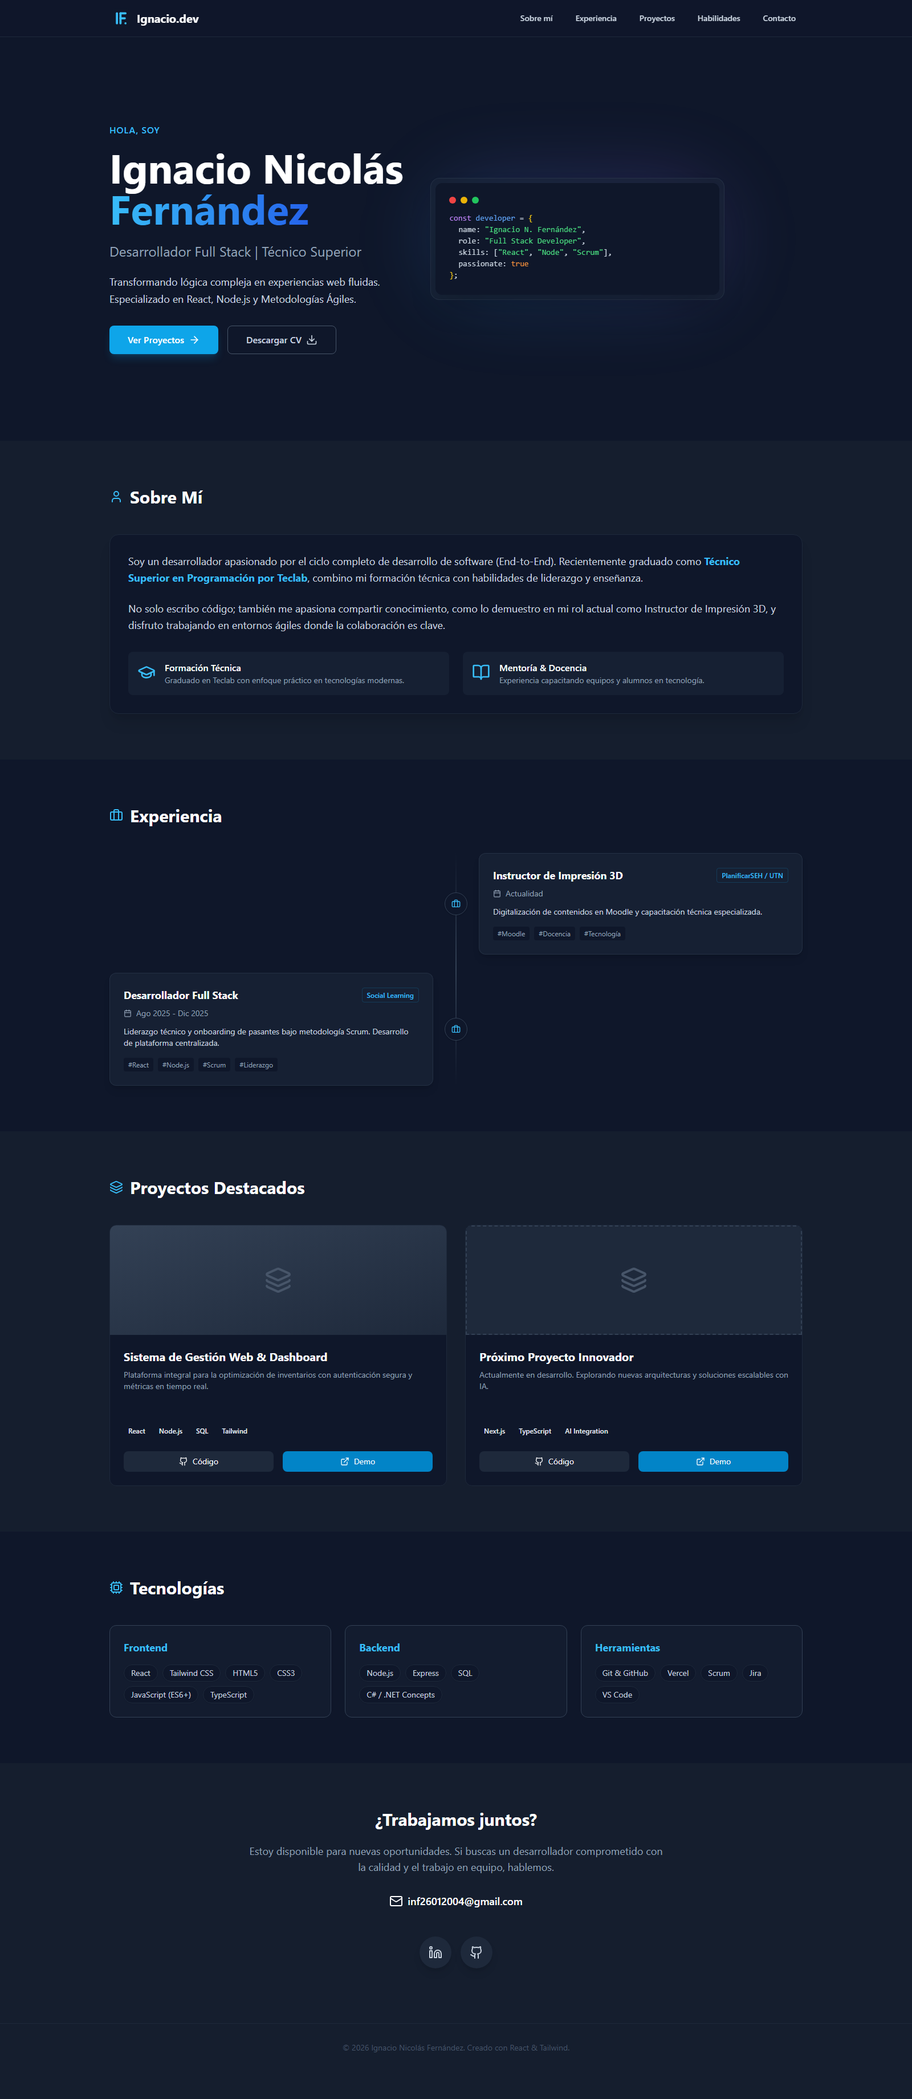
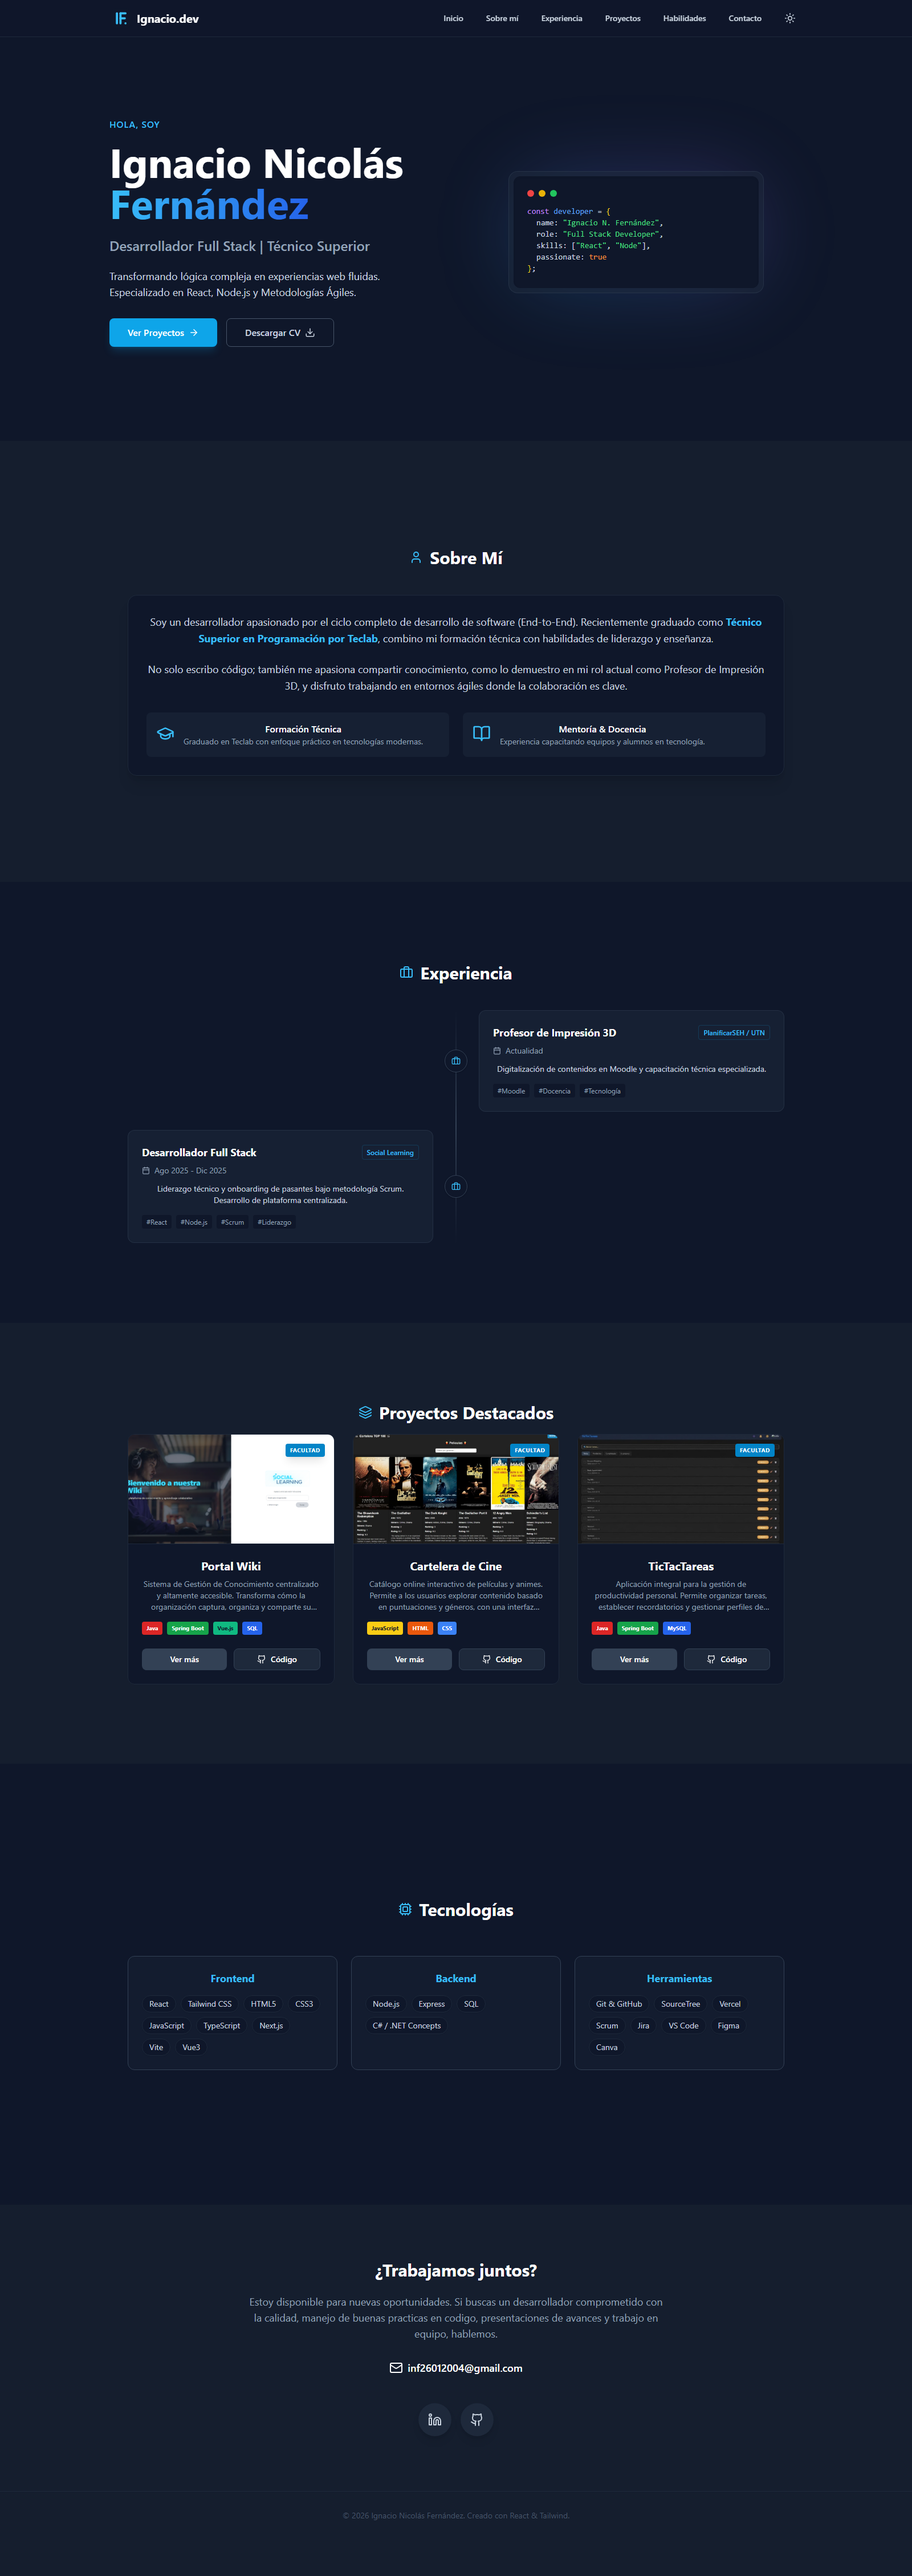
readme v2

diff --git a/README.md b/README.md
@@ -1,115 +1,153 @@
+Markdown
+
 <div align="center">
-  <a href="https://ignacio-fernandez-dev.vercel.app" target="_blank">
-    <img src="./public/logo.svg" alt="Logo" width="100" height="100">
+
+<a href="https://ignacio-fernandez-dev.vercel.app" target="_blank"> <img src="./public/logo.svg" alt="Logo" width="100" height="100">
+
   </a>
 
   <h1 align="center">Portafolio Personal | Ignacio Nicolás Fernández</h1>
 
-  <p align="center">
-    <strong>Desarrollador Full Stack & Técnico Superior en Programación</strong>
-    <br />
-    Un espacio minimalista y moderno para exhibir mis proyectos y experiencia técnica.
-    <br />
-    <br />
-    <a href="https://ignacio-fernandez-dev.vercel.app"><strong>🚀 Ver Demo en Vivo</strong></a>
-    ·
-    <a href="#-reportar-error">Reportar Error</a>
-    ·
-    <a href="#-contacto">Contactar</a>
-  </p>
-  
-  <p align="center">
-    <img src="https://img.shields.io/badge/STATUS-EN_DESARROLLO-green?style=for-the-badge" alt="Status" />
-    <img src="https://img.shields.io/badge/VITE-v5.0-646CFF?style=for-the-badge&logo=vite&logoColor=white" alt="Vite" />
-    <img src="https://img.shields.io/badge/REACT-20232A?style=for-the-badge&logo=react&logoColor=61DAFB" alt="React" />
-    <img src="https://img.shields.io/badge/TYPESCRIPT-3178C6?style=for-the-badge&logo=typescript&logoColor=white" alt="TypeScript" />
-  </p>
-</div>
+  <p align="center">    <strong>Desarrollador Full Stack & Técnico Superior en Programación</strong>
 
-<details>
+    <br />
+
+    Un espacio digital moderno, minimalista y altamente interactivo para exhibir mi trayectoria y proyectos.
+
+    <br />
+
+    <br />
+
+    <a href="https://ignacio-fernandez-dev.vercel.app"><strong>🚀 Ver Demo en Vivo</strong></a>
+
+    ·
+
+    <a href="https://github.com/TU_USUARIO/portfolio/issues">Reportar Bug</a>
+
+    ·
+
+    <a href="#-contacto">Contactar</a>
+
+  </p>
+
+  <p align="center">
+
+    <img src="https://img.shields.io/badge/STATUS-TERMINADO-success?style=for-the-badge" alt="Status" />
+
+    <img src="https://img.shields.io/badge/REACT-20232A?style=for-the-badge&logo=react&logoColor=61DAFB" alt="React" />
+
+    <img src="https://img.shields.io/badge/TYPESCRIPT-3178C6?style=for-the-badge&logo=typescript&logoColor=white" alt="TypeScript" />
+
+    <img src="https://img.shields.io/badge/TAILWIND-38B2AC?style=for-the-badge&logo=tailwind-css&logoColor=white" alt="Tailwind" />
+
+  </p>
+
+</div><details>
+
   <summary>Tabla de Contenidos</summary>
-  <ol>
-    <li><a href="#-sobre-el-proyecto">Sobre el Proyecto</a></li>
-    <li><a href="#-tecnologías-utilizadas">Tecnologías Utilizadas</a></li>
-    <li><a href="#-instalación-y-uso">Instalación y Uso</a></li>
-    <li><a href="#-estructura-del-proyecto">Estructura</a></li>
+
+  <ol>    <li><a href="#-sobre-el-proyecto">Sobre el Proyecto</a></li>
+
+    <li><a href="#-características-clave">Características Clave</a></li>
+
+    <li><a href="#-tecnologías-utilizadas">Tecnologías</a></li>
+
+    <li><a href="#-instalación-y-uso">Instalación</a></li>
+
     <li><a href="#-contacto">Contacto</a></li>
+
   </ol>
+
 </details>
 
----
+---## 📸 Captura de Pantalla<div align="center">
 
-## 📸 Captura de Pantalla
+<img src="./public/preview.png" alt="Vista previa del portafolio" width="100%" style="border-radius: 10px; border: 1px solid #333;"></div>
 
-<img src="./public/preview.png" alt="Screenshot del Portafolio" width="100%">
+---## 💡 Sobre el Proyecto
 
-## 💡 Sobre el Proyecto
+Este portafolio representa mi evolución como desarrollador, diseñado bajo la filosofía **"Mobile First"** y principios de **Clean Code**.
 
-Este portafolio fue diseñado siguiendo principios de **"Clean Code"** y **Diseño UI/UX Moderno**. El objetivo es presentar mi trayectoria como desarrollador y docente de una manera fluida, interactiva y totalmente responsiva.
+No es solo una tarjeta de presentación estática; es una aplicación web progresiva (SPA) que demuestra el manejo de estado complejo, renderizado condicional y una experiencia de usuario (UX) pulida. Incluye un sistema de temas (Oscuro/Claro) persistente y navegación fluida.
 
-### ✨ Características Principales:
+---## ✨ Características Clave* **🌗 Modo Oscuro/Claro:** Sistema de temas inteligente que detecta la preferencia del sistema operativo y permite el cambio manual, persistiendo la elección del usuario.* **📱 Diseño 100% Responsive:** Adaptabilidad perfecta desde móviles pequeños hasta pantallas de escritorio._ **⚡ Performance Optimizada:** Carga instantánea gracias a Vite y optimización de activos._ **🖼 Modales Interactivos:** Visualización detallada de proyectos sin recargar la página ni perder el contexto de navegación._ **📨 Magic Mail Link:** Integración directa con Gmail API para facilitar el contacto sin fricción._ **🎨 Animaciones Suaves:** Transiciones de entrada y efectos hover utilizando `Framer Motion` y CSS nativo.\* **🔍 Accesibilidad:** Estructura semántica y contrastes cuidados para una mejor legibilidad.
 
-- **Modo Oscuro Profundo:** Paleta de colores `Slate-900` personalizada para reducir fatiga visual.
-- **Animaciones Suaves:** Transiciones de entrada al hacer scroll utilizando `Framer Motion`.
-- **Diseño Responsive:** Adaptable a móviles, tablets y escritorio ("Mobile First").
-- **Glassmorphism:** Efectos de desenfoque en la barra de navegación.
-- **Performance:** Optimizado con Vite para una carga instantánea.
+---## 🛠 Tecnologías Utilizadas
 
----
+Un stack moderno enfocado en escalabilidad y experiencia de desarrollador:_ **Core:** [React 18](https://reactjs.org/) (Hooks, Custom Hooks)_ **Lenguaje:** [TypeScript](https://www.typescriptlang.org/) (Seguridad de tipos)_ **Estilos:** [Tailwind CSS](https://tailwindcss.com/) (Utility-first)_ **Iconos:** [Lucide React](https://lucide.dev/)_ **Build Tool:** [Vite](https://vitejs.dev/)_ **Animaciones:** Framer Motion & CSS Transitions
 
-## 🛠 Tecnologías Utilizadas
+---## 🚀 Instalación y Uso
 
-Este proyecto utiliza un stack moderno enfocado en performance y escalabilidad:
+¿Quieres ver el código o probarlo en tu máquina? Sigue estos pasos:1. **Clonar el repositorio** ```bash
 
-- **Core:** [React](https://reactjs.org/) (Hooks, Functional Components)
-- **Lenguaje:** [TypeScript](https://www.typescriptlang.org/) (Tipado estático estricto)
-- **Estilos:** [Tailwind CSS](https://tailwindcss.com/) (Utility-first framework)
-- **Build Tool:** [Vite](https://vitejs.dev/)
-- **Iconos:** [Lucide React](https://lucide.dev/)
-- **Animaciones:** [Framer Motion](https://www.framer.com/motion/)
-
----
-
-## 🚀 Instalación y Uso
-
-Si deseas clonar este repositorio para probarlo localmente:
-
-1.  **Clonar el repositorio**
-
-    ```bash
     git clone [https://github.com/TU_USUARIO/portfolio.git](https://github.com/TU_USUARIO/portfolio.git)
-    ```
 
-2.  **Instalar dependencias**
+    ```2.  **Instalar dependencias**    ```bash
 
-    ```bash
     cd portfolio
+
     npm install
-    ```
 
-3.  **Iniciar servidor de desarrollo**
+    ```3.  **Iniciar servidor local**    ```bash
 
-    ```bash
     npm run dev
-    ```
 
-4.  **Construir para producción**
-    ```bash
+    ```4.  **Generar build de producción**    ```bash
+
     npm run build
+
     ```
 
----
+---## 📂 Estructura del Proyecto```text
 
-## 📂 Estructura del Proyecto
-
-La arquitectura de carpetas está organizada para facilitar el mantenimiento:
-
-```text
 src/
-├── components/       # Componentes reutilizables (Hero, About, etc.)
-│   ├── RevealOnScroll.tsx  # Wrapper para animaciones
-│   └── ...
-├── assets/           # Recursos estáticos
-├── App.tsx           # Componente principal
-└── main.tsx          # Punto de entrada
-```
+
+├── components/ # Componentes modulares (Navbar, Hero, Projects...)
+
+├── assets/ # Recursos estáticos importados
+
+├── App.tsx # Layout principal y lógica de estructura
+
+├── index.css # Configuración de Tailwind y estilos globales
+
+└── main.tsx # Punto de entrada de React
+
+public/
+
+├── logo.svg # Identidad de marca
+
+└── cv-ignacio.pdf # Currículum descargable
+
+📬 Contacto
+
+¿Te interesa mi perfil o quieres colaborar en un proyecto?
+
+<div align="center">
+
+<a href="https://www.google.com/search?q=https://mail.google.com/mail/%3Fview%3Dcm%26fs%3D1%26to%3Dinf26012004%40gmail.com" target="_blank">
+
+<img src="https://img.shields.io/badge/Gmail-D14836?style=for-the-badge&logo=gmail&logoColor=white" alt="Gmail" />
+
+</a>
+
+<a href="https://www.google.com/search?q=https://linkedin.com/in/TU_USUARIO" target="_blank">
+
+<img src="https://www.google.com/search?q=https://img.shields.io/badge/LinkedIn-0077B5%3Fstyle%3Dfor-the-badge%26logo%3Dlinkedin%26logoColor%3Dwhite" alt="LinkedIn" />
+
+</a>
+
+<a href="https://www.google.com/search?q=https://github.com/TU_USUARIO" target="_blank">
+
+<img src="https://www.google.com/search?q=https://img.shields.io/badge/GitHub-100000%3Fstyle%3Dfor-the-badge%26logo%3Dgithub%26logoColor%3Dwhite" alt="GitHub" />
+
+</a>
+
+</div>
+
+<div align="center">
+
+<p>Desarrollado con ❤ por <strong>Ignacio Nicolás Fernández</strong></p>
+
+<p>© 2026 - Todos los derechos reservados.</p>
+
+</div>
